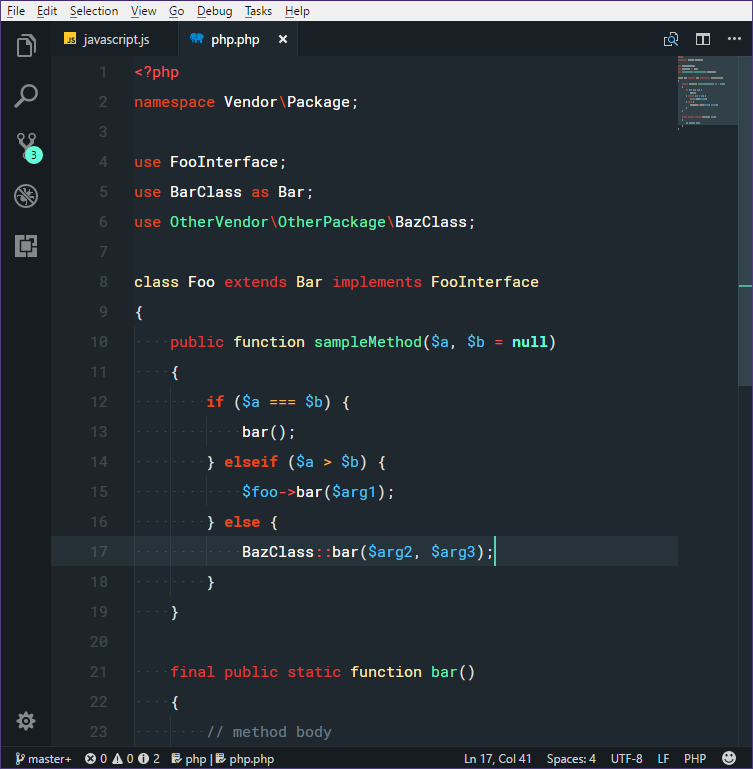
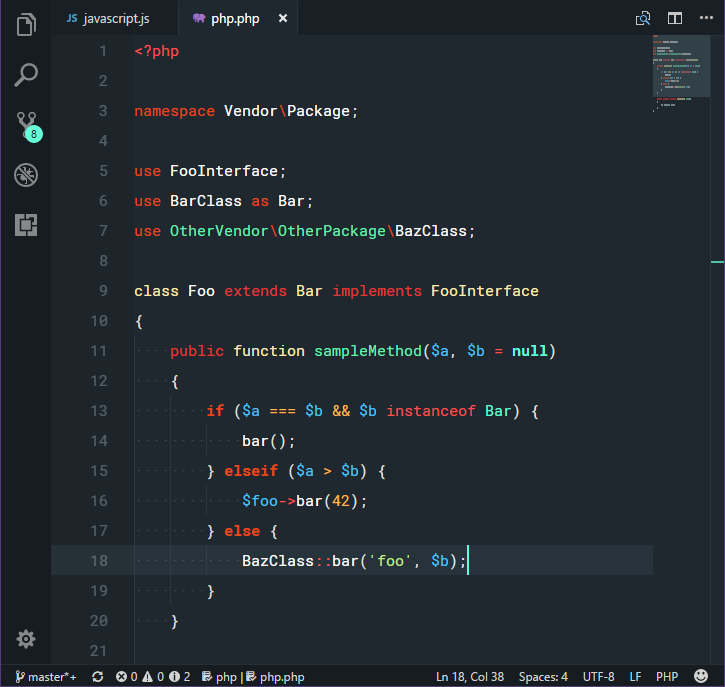
Few minor changes

diff --git a/samples/javascript.js b/samples/javascript.js
@@ -1,0 +1,157 @@
+/*!
+ * body-parser
+ * Copyright(c) 2014-2015 Douglas Christopher Wilson
+ * MIT Licensed
+ */
+
+'use strict'
+
+/**
+ * Module dependencies.
+ * @private
+ */
+
+var deprecate = require('depd')('body-parser')
+
+/**
+ * Cache of loaded parsers.
+ * @private
+ */
+
+var parsers = Object.create(null)
+
+/**
+ * @typedef Parsers
+ * @type {function}
+ * @property {function} json
+ * @property {function} raw
+ * @property {function} text
+ * @property {function} urlencoded
+ */
+
+/**
+ * Module exports.
+ * @type {Parsers}
+ */
+
+exports = module.exports = deprecate.function(bodyParser,
+  'bodyParser: use individual json/urlencoded middlewares')
+
+/**
+ * JSON parser.
+ * @public
+ */
+
+Object.defineProperty(exports, 'json', {
+  configurable: true,
+  enumerable: true,
+  get: createParserGetter('json')
+})
+
+/**
+ * Raw parser.
+ * @public
+ */
+
+Object.defineProperty(exports, 'raw', {
+  configurable: true,
+  enumerable: true,
+  get: createParserGetter('raw')
+})
+
+/**
+ * Text parser.
+ * @public
+ */
+
+Object.defineProperty(exports, 'text', {
+  configurable: true,
+  enumerable: true,
+  get: createParserGetter('text')
+})
+
+/**
+ * URL-encoded parser.
+ * @public
+ */
+
+Object.defineProperty(exports, 'urlencoded', {
+  configurable: true,
+  enumerable: true,
+  get: createParserGetter('urlencoded')
+})
+
+/**
+ * Create a middleware to parse json bodies.
+ *
+ * @param {object} [options]
+ * @return {function}
+ * @deprecated
+ * @public
+ */
+
+function bodyParser (options) {
+  var opts = {}
+
+  // exclude type option
+  if (options) {
+    for (var prop in options) {
+      if (prop !== 'type') {
+        opts[prop] = options[prop]
+      }
+    }
+  }
+
+  var _urlencoded = exports.urlencoded(opts)
+  var _json = exports.json(opts)
+
+  return function bodyParser (req, res, next) {
+    _json(req, res, function (err) {
+      if (err) return next(err)
+      _urlencoded(req, res, next)
+    })
+  }
+}
+
+/**
+ * Create a getter for loading a parser.
+ * @private
+ */
+
+function createParserGetter (name) {
+  return function get () {
+    return loadParser(name)
+  }
+}
+
+/**
+ * Load a parser module.
+ * @private
+ */
+
+function loadParser (parserName) {
+  var parser = parsers[parserName]
+
+  if (parser !== undefined) {
+    return parser
+  }
+
+  // this uses a switch for static require analysis
+  switch (parserName) {
+    case 'json':
+      parser = require('./lib/types/json')
+      break
+    case 'raw':
+      parser = require('./lib/types/raw')
+      break
+    case 'text':
+      parser = require('./lib/types/text')
+      break
+    case 'urlencoded':
+      parser = require('./lib/types/urlencoded')
+      break
+  }
+
+  // store to prevent invoking require()
+  return (parsers[parserName] = parser)
+}

diff --git a/samples/php.php b/samples/php.php
@@ -1,0 +1,26 @@
+<?php
+
+namespace Vendor\Package;
+
+use FooInterface;
+use BarClass as Bar;
+use OtherVendor\OtherPackage\BazClass;
+
+class Foo extends Bar implements FooInterface
+{
+    public function sampleMethod($a, $b = null)
+    {
+        if ($a === $b && $b instanceof Bar) {
+            bar();
+        } elseif ($a > $b) {
+            $foo->bar(42);
+        } else {
+            BazClass::bar('foo', $b);
+        }
+    }
+
+    final public static function bar()
+    {
+        // method body
+    }
+}
